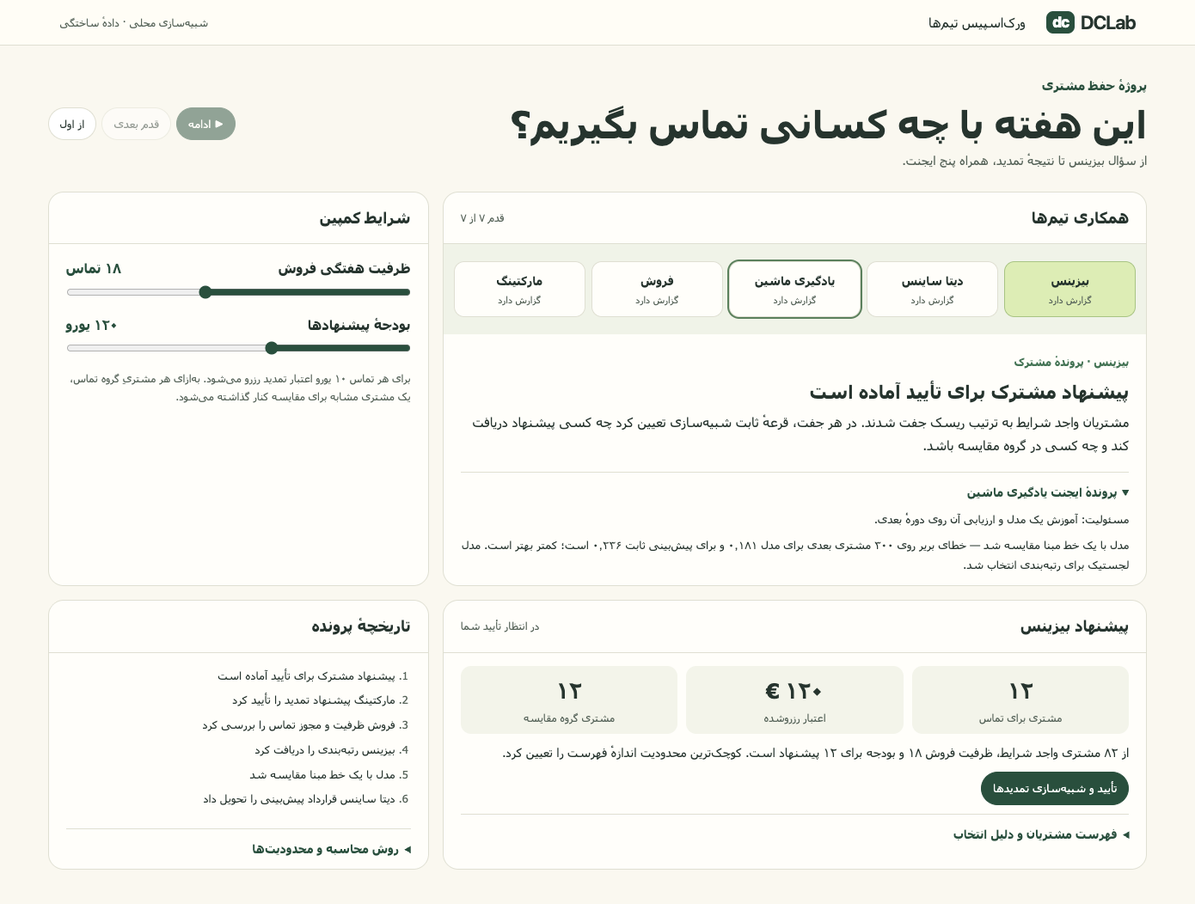
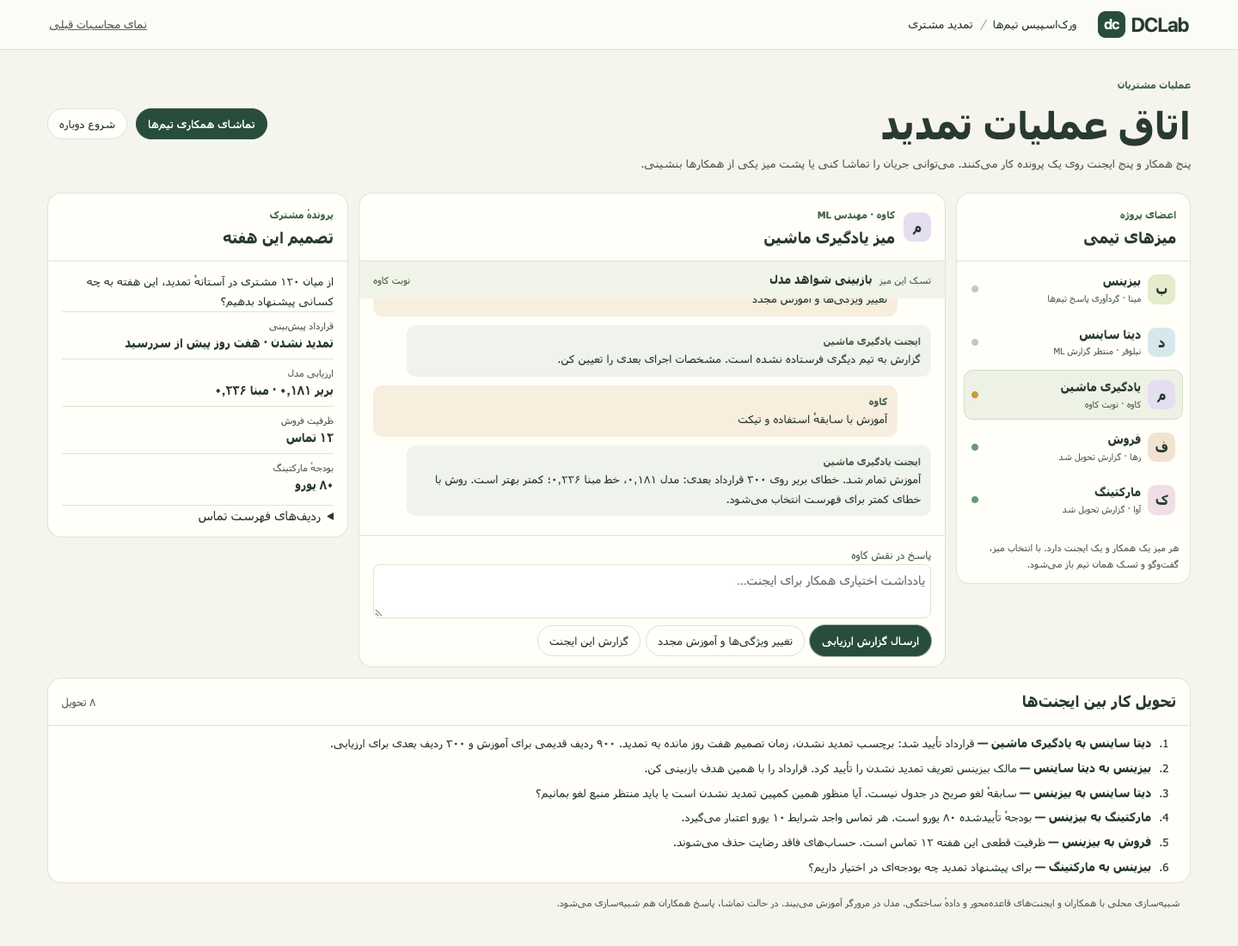
Let each team review and hand off its own work in the retention demo

diff --git a/docs/ui-demos/retention-simulation/room.js b/docs/ui-demos/retention-simulation/room.js
@@ -1,0 +1,268 @@
+'use strict';
+const desks={
+  biz:{team:'بیزینس',person:'مینا',job:'مالک تصمیم',icon:'ب',color:'#e5ebcb'},
+  ds:{team:'دیتا ساینس',person:'نیلوفر',job:'دیتا ساینتیست',icon:'د',color:'#d7e8ed'},
+  ml:{team:'یادگیری ماشین',person:'کاوه',job:'مهندس ML',icon:'م',color:'#e5def0'},
+  sales:{team:'فروش',person:'رها',job:'مدیر فروش',icon:'ف',color:'#f2e3d0'},
+  mkt:{team:'مارکتینگ',person:'آوا',job:'مدیر کمپین',icon:'ک',color:'#efdee5'}
+};
+const ids=Object.keys(desks),$=id=>document.getElementById(id),fa=n=>Number(n).toLocaleString('fa-IR');
+const key='dclab-team-room-1',data=createRetentionCohort();
+const title={brief:'تعریف تصمیم این هفته',idle:'منتظر درخواست بیزینس',audit:'بازبینی تعریف و ستون هدف',clarify:'پاسخ به سؤال دیتا ساینس',blocked:'انتظار برای تعریف قابلاندازهگیری',spec:'انتخاب ویژگیهای مدل',evaluate:'بازبینی شواهد مدل',verify:'تفسیر رتبهبندی',capacity:'تأیید ظرفیت تماس',offer:'تأیید بودجهٔ پیشنهاد',join:'گردآوری پاسخ تیمها',approve:'بررسی و تأیید فهرست',feedback:'بازبینی پیشنهاد',done:'گزارش تحویل شد',closed:'پرونده بسته شد',unavailable:'اجرای پرونده متوقف شد'};
+function initial(){return {v:1,tasks:{biz:'brief',ds:'idle',ml:'idle',sales:'idle',mkt:'idle'},chat:Object.fromEntries(ids.map(i=>[i,[]])),log:[],capacity:null,budget:null,tickets:null,model:null,ranking:false,version:0,closed:false,rejected:false}}
+let s=initial(),selected='biz',timer=null,cursor=0,fitted=null;
+try{const saved=JSON.parse(localStorage.getItem(key));if(saved?.v===1&&saved.tasks&&saved.chat)s=saved}catch{}
+function agent(id){return 'ایجنت '+desks[id].team}
+function say(id,who,text,kind='agent'){s.chat[id].push({who,text,kind})}
+function seed(){say('biz',desks.biz.person,'این هفته ۱۲۰ مشتری در آستانهٔ تمدید داریم. با چه کسانی تماس بگیریم؟','human');say('biz',agent('biz'),'برای اقدام، یک رتبهبندی، ظرفیت فروش و بودجهٔ پیشنهاد لازم داریم. هدف کمپین را تأیید میکنی؟')}
+if(!s.chat.biz.length)seed();
+function send(from,to,text){
+  s.log.push({from,to,text});say(from,agent(from),'برای '+agent(to)+' فرستادم: '+text,'handoff');
+  say(to,agent(from),text,'handoff');
+}
+function save(){try{localStorage.setItem(key,JSON.stringify(s))}catch{}}
+function stop(){clearInterval(timer);timer=null}
+function fittedModel(){return fitted || (fitted=data.fit(s.tickets))}
+function rows(){
+  if(!s.ranking||s.capacity===null||s.budget===null)return [];
+  const {allowed}=fittedModel(),size=Math.min(s.capacity,Math.floor(s.budget/10),Math.floor(allowed.length/2)),list=[];
+  for(let i=0;i<size;i++){
+    const pair=allowed.slice(i*2,i*2+2);if(pair[0].coin<.5)pair.reverse();
+    pair.forEach((a,j)=>list.push({a,offer:j===0,renew:a.draw>=a.risk*(j===0?.76:1)}));
+  }
+  return list;
+}
+function gather(){
+  if(!s.ranking||s.capacity===null||s.budget===null||s.closed)return;
+  s.version++;s.tasks.biz=rows().length?'approve':'feedback';
+  say('biz',agent('biz'),'پیشنهاد نسخهٔ '+fa(s.version)+' آماده است: '+fa(rows().length/2)+' تماس و به همین تعداد مشتری مشابه در گروه مقایسه. '+(rows().length?'مالک تصمیم میتواند فهرست را ببیند و تأیید کند.':'ظرفیت یا بودجه کافی نیست؛ از تیم مربوطه اصلاح بخواه.'));
+}
+function outcome(){const list=rows(),n=list.length/2;return 'از '+fa(n)+' نفر در هر گروه، '+fa(list.filter(r=>r.offer&&r.renew).length)+' نفر با پیشنهاد و '+fa(list.filter(r=>!r.offer&&r.renew).length)+' نفر در گروه مقایسه تمدید کردند. این یک مشاهدهٔ ساختگی با نمونهٔ کوچک است.'}
+// A person decides only at their own desk. Their agent computes or forwards a scoped response.
+function choices(id){
+  if(s.closed)return [];
+  switch(s.tasks[id]){
+  case 'brief': return [['start','شروع کمپین تمدید']];
+  case 'audit':return [['confirm','تأیید برچسب «تمدید نشدن»'],['challenge','درخواست بررسی «لغو صریح»']];
+  case 'clarify':return [['resolve','هدف همین کمپین: تمدید نشدن'],['hold','توقف تا دریافت سابقهٔ لغو']];
+  case 'spec':return [['full','آموزش با سابقهٔ استفاده و تیکت'],['simple','آموزش فقط با سابقهٔ استفاده']];
+  case 'evaluate':return [['release','ارسال گزارش ارزیابی'],['rerun','تغییر ویژگیها و آموزش مجدد']];
+  case 'verify':return [['interpret','تأیید تفسیر و تحویل به بیزینس']];
+  case 'capacity':return [['capacity','ثبت ظرفیت و پاسخ به بیزینس']];
+  case 'offer':return [['offer','ثبت بودجه و شرایط پیشنهاد']];
+  case 'approve':return [['approve','تأیید و مشاهدهٔ تمدیدها'],['change','بازگرداندن به فروش'],['terms','بازنگری بودجه با مارکتینگ']];
+  case 'feedback':return [['change','بازگرداندن به فروش'],['terms','بازنگری بودجه با مارکتینگ']];
+  default:return [];
+  }
+}
+function apply(id,action,value,note,automatic=false){
+  const option=choices(id).find(c=>c[0]===action);if(!option)return;
+  if((action==='capacity'||action==='offer')&&(!Number.isInteger(value)||value<0||value>(action==='capacity'?30:300)))return;
+  say(id,desks[id].person+(automatic?' · شبیهسازی':''),option[1]+(value!=null?' · '+fa(value):'')+(note?' — '+note:''),'human');
+  if(action==='start'){
+    s.tasks={biz:'join',ds:'audit',ml:'idle',sales:'capacity',mkt:'offer'};
+    send('biz','ds','آیا میتوان هفت روز پیش از سررسید، ریسک تمدید نشدن را تخمین زد؟');
+    say('ds',agent('ds'),'در داده، وضعیت تمدید پس از سررسید ثبت شده است. آیا این همان خروجی مورد نظر است؟ پیش از آموزش، تعریف تو لازم است.');
+    send('biz','sales','این هفته چند تماسِ مجاز میتوانیم بگیریم؟');say('sales',agent('sales'),'از ۱۲۰ حساب، '+fa(data.cohort.filter(a=>a.consent).length)+' مورد مجوز تماس دارند. ظرفیت این هفته را ثبت کن.');
+    send('biz','mkt','برای پیشنهاد تمدید چه بودجهای در اختیار داریم؟');say('mkt',agent('mkt'),'هر پیشنهاد به ۱۰ یورو اعتبار نیاز دارد. بودجهٔ در دسترس را تأیید کن.');
+  }else if(action==='challenge'){
+    s.tasks.ds='blocked';s.tasks.biz='clarify';send('ds','biz','سابقهٔ لغو صریح در جدول نیست. آیا منظور همین کمپین تمدید نشدن است یا باید منتظر منبع لغو بمانیم؟');
+  }else if(action==='resolve'){
+    s.tasks.biz='join';s.tasks.ds='audit';send('biz','ds','مالک بیزینس تعریف تمدید نشدن را تأیید کرد. قرارداد را با همین هدف بازبینی کن.');
+  }else if(action==='hold'){
+    send('biz','ds','تا تأمین منبع رویداد لغو، پرونده را متوقف کن.');s.rejected=true;s.closed=true;ids.forEach(i=>s.tasks[i]='unavailable');
+  }else if(action==='confirm'){
+    s.tasks.ds='join';s.tasks.ml='spec';send('ds','ml','قرارداد تأیید شد: برچسب تمدید نشدن، زمان تصمیم هفت روز مانده به تمدید. ۹۰۰ ردیف قدیمی برای آموزش و ۳۰۰ ردیف بعدی برای ارزیابی.');
+    say('ml',agent('ml'),'ویژگیهای در دسترس همان روز را انتخاب کن. نتیجهٔ تمدید وارد ویژگیها نمیشود.');
+  }else if(action==='full'||action==='simple'){
+    s.tickets=action==='full';fitted=data.fit(s.tickets);s.model={score:fitted.score,baseline:fitted.baseScore};s.tasks.ml='evaluate';
+    say('ml',agent('ml'),'آموزش تمام شد. خطای بریر روی ۳۰۰ قرارداد بعدی: مدل '+fa(fitted.score.toFixed(3))+'، خط مبنا '+fa(fitted.baseScore.toFixed(3))+'؛ کمتر بهتر است. روش با خطای کمتر برای فهرست انتخاب میشود.');
+  }else if(action==='rerun'){
+    s.tasks.ml='spec';s.model=null;fitted=null;say('ml',agent('ml'),'گزارش به تیم دیگری فرستاده نشده است. مشخصات اجرای بعدی را تعیین کن.');
+  }else if(action==='release'){
+    s.tasks.ml='done';s.tasks.ds='verify';send('ml','ds','گزارش مدل با '+fa(s.tickets?2:1)+' ویژگی: خطای مدل '+fa(s.model.score.toFixed(3))+' و خطای مبنا '+fa(s.model.baseline.toFixed(3))+' روی ۳۰۰ قرارداد.');
+    say('ds',agent('ds'),'این مدل ریسک را مرتب میکند. برای سنجش اثر تماس، یک گروه مقایسه با ریسک مشابه پیشنهاد میدهم. نتیجه را تحویل بدهم؟');
+  }else if(action==='interpret'){
+    s.ranking=true;s.tasks.ds='done';send('ds','biz','رتبهبندی ۱۲۰ مشتری آماده است. افراد مجاز را برحسب ریسک جفت میکنیم و از هر جفت یک نفر با قرعه وارد گروه پیشنهاد میشود.');gather();
+  }else if(action==='capacity'||action==='offer'){
+    if(action==='capacity')s.capacity=value;else s.budget=value;
+    s.tasks[id]='done';send(id,'biz',action==='capacity'?'ظرفیت قطعی این هفته '+fa(value)+' تماس است. حسابهای فاقد رضایت حذف میشوند.':'بودجهٔ تأییدشده '+fa(value)+' یورو است. هر تماس واجد شرایط ۱۰ یورو اعتبار میگیرد.');gather();
+  }else if(action==='change'||action==='terms'){
+    const target=action==='change'?'sales':'mkt';s.tasks.biz='join';s.tasks[target]=target==='sales'?'capacity':'offer';
+    if(target==='sales')s.capacity=null;else s.budget=null;
+    send('biz',target,'پیشنهاد نسخهٔ '+fa(s.version)+' برای بازنگری برگشت. محدودیت جدید را در میز خودت تأیید کن.');
+  }else if(action==='approve'){
+    s.closed=true;s.tasks.biz='closed';say('biz',agent('biz'),'تصمیم نسخهٔ '+fa(s.version)+' ثبت شد. '+outcome());
+  }
+  save();if(s.closed)stop();render();
+}
+
+function el(tag,text,cls){
+  const node=document.createElement(tag);
+  if(text!=null)node.textContent=text;
+  if(cls)node.className=cls;
+  return node;
+}
+function button(label,fn,cls){
+  const node=el('button',label,cls);
+  node.type='button';
+  node.onclick=fn;
+  return node;
+}
+const drafts={};
+function visit(id){
+  stop();
+  selected=id;
+  render();
+}
+function stateText(id){
+  if(choices(id).length)return 'نوبت '+desks[id].person;
+  if(s.tasks[id]==='join'&&id==='ds')return 'منتظر گزارش ML';
+  return title[s.tasks[id]];
+}
+function renderDesks(){
+  $('desks').replaceChildren();
+  for(const [id,d] of Object.entries(desks)){
+    const b=button('',()=>visit(id),'deskbtn');
+    b.dataset.team=id;
+    b.setAttribute('aria-pressed',String(id===selected));
+    const mark=el('span',d.icon,'symbol');
+    mark.style.setProperty('--tone',d.color);
+    const name=el('span');
+    name.append(el('b',d.team),el('small',d.person+' · '+stateText(id)));
+    const status=choices(id).length?'waiting':s.tasks[id]==='done'?'done':'';
+    b.append(mark,name,el('i',null,'dot '+status));
+    $('desks').append(b);
+  }
+}
+function renderMessages(){
+  const d=desks[selected];
+  $('role').textContent=d.person+' · '+d.job;
+  $('deskName').textContent='میز '+d.team;
+  $('symbol').textContent=d.icon;
+  $('symbol').style.setProperty('--tone',d.color);
+  $('task').textContent=title[s.tasks[selected]];
+  $('status').textContent=stateText(selected);
+  const chat=$('chat');
+  chat.replaceChildren();
+  for(const m of s.chat[selected]){
+    const msg=el('article',null,'message '+m.kind);
+    msg.append(el('b',m.who),el('p',m.text));
+    chat.append(msg);
+  }
+  if(!chat.childElementCount)chat.append(el('p','درخواستهای این تیم و پاسخ ایجنت اینجا ثبت میشود.','empty'));
+  chat.scrollTop=chat.scrollHeight;
+}
+function report(id){
+  const sent=s.log.filter(m=>m.from===id).at(-1);
+  const next=choices(id).map(c=>c[1]).join(' یا ');
+  return (sent?'آخرین تحویل به '+desks[sent.to].team+' — '+sent.text:'هنوز گزارشی از این میز به تیم دیگری ارسال نشده.')+
+    ' وضعیت فعلی: '+stateText(id)+'. '+(next?'تصمیم بعدی: '+next+'.':'');
+}
+function renderActions(){
+  const box=$('actions'),options=choices(selected),note=$('note');
+  box.replaceChildren();
+  note.value=drafts[selected]||'';
+  note.hidden=!options.length;
+  $('noteLabel').hidden=note.hidden;
+  $('noteLabel').textContent='پاسخ در نقش '+desks[selected].person;
+  const numeric=options.some(([a])=>a==='capacity'||a==='offer');
+  if(numeric){
+    const capacity=selected==='sales',input=el('input');
+    input.type='number';input.min='0';input.max=capacity?'30':'300';input.step='1';input.required=true;
+    input.id='constraint';input.value=capacity?'18':'120';
+    const label=el('label',capacity?'تعداد تماس':'بودجه (یورو)');
+    label.htmlFor=input.id;
+    box.append(label,input);
+  }
+  options.forEach(([action,label],i)=>{
+    const b=button(label,()=>{
+      const input=$('constraint');
+      if(input&&!input.reportValidity())return;
+      stop();
+      const text=note.value.trim();
+      delete drafts[selected];
+      apply(selected,action,input?input.valueAsNumber:null,text);
+    },i===0?'primary':'');
+    b.dataset.action=action;
+    box.append(b);
+  });
+  if(!options.length&&!s.closed){
+    const next=ids.find(id=>choices(id).length);
+    if(next)box.append(button('رفتن به میز '+desks[next].team,()=>visit(next),'primary'));
+  }
+  box.append(button('گزارش این ایجنت',()=>{
+    stop();
+    say(selected,desks[selected].person,'چه کاری انجام دادی و قدم بعدی چیست؟','human');
+    say(selected,agent(selected),report(selected));
+    save();render();
+  }));
+}
+function fact(label,value){
+  const row=el('div',null,'fact');
+  row.append(el('small',label),el('strong',value));
+  return row;
+}
+function renderCase(){
+  const list=rows(),box=$('artifacts');
+  $('brief').textContent=s.rejected?'پرونده تا دریافت سابقهٔ لغو متوقف شد.':s.closed?outcome():'از میان ۱۲۰ مشتری در آستانهٔ تمدید، این هفته به چه کسانی پیشنهاد بدهیم؟';
+  box.replaceChildren(
+    fact('قرارداد پیشبینی',s.rejected?'در انتظار منبع لغو':s.tasks.ml!=='idle'?'تمدید نشدن · هفت روز پیش از سررسید':'در انتظار تأیید تعریف'),
+    fact('ارزیابی مدل',s.model?'بریر '+fa(s.model.score.toFixed(3))+' · مبنا '+fa(s.model.baseline.toFixed(3)):'در انتظار اجرای آموزش'),
+    fact('ظرفیت فروش',s.capacity==null?'در انتظار فروش':fa(s.capacity)+' تماس'),
+    fact('بودجهٔ مارکتینگ',s.budget==null?'در انتظار مارکتینگ':fa(s.budget)+' یورو')
+  );
+  if(s.version)box.append(fact('پیشنهاد نسخهٔ '+fa(s.version),s.tasks.biz==='join'?'برگشت برای بازنگری':fa(list.length/2)+' تماس · '+(s.closed?'تأیید شد':'در انتظار تصمیم')));
+  $('list').replaceChildren();
+  if(!list.length)$('list').append(el('p','هنوز فهرستی برای تماس آماده نیست.','empty'));
+  for(const r of list){
+    const parts=['حساب '+fa(r.a.id),r.offer?'پیشنهاد':'مقایسه','ریسک '+fa(Math.round(fittedModel().model(r.a)*100))+'٪'];
+    if(s.closed)parts.push(r.renew?'تمدید شد':'تمدید نشد');
+    $('list').append(el('div',parts.join(' · ')));
+  }
+  $('history').replaceChildren();
+  $('count').textContent=fa(s.log.length)+' تحویل';
+  for(const m of s.log.slice().reverse()){
+    const row=el('li');
+    row.append(el('b',desks[m.from].team+' به '+desks[m.to].team+' — '),document.createTextNode(m.text));
+    $('history').append(row);
+  }
+  if(!s.log.length)$('history').append(el('li','با شروع کمپین، سه درخواست از بیزینس به تیمها ارسال میشود.','empty'));
+}
+function render(){
+  $('play').textContent=timer?'مکث و ادامهٔ دستی':'تماشای همکاری تیمها';
+  $('play').disabled=s.closed;
+  renderDesks();renderMessages();renderActions();renderCase();
+}
+function step(){
+  for(let i=0;i<ids.length;i++){
+    const id=ids[cursor++%ids.length],options=choices(id);
+    if(!options.length)continue;
+    selected=id;
+    let action=options[0][0];
+    if(s.tasks[id]==='feedback')action=s.capacity===0?'change':'terms';
+    const value=action==='capacity'?18:action==='offer'?120:null;
+    apply(id,action,value,null,true);
+    return;
+  }
+  stop();render();
+}
+$('play').onclick=()=>{
+  if(timer){stop();render();return}
+  timer=setInterval(step,2700);
+  step();
+};
+$('response').onsubmit=e=>e.preventDefault();
+$('note').oninput=e=>drafts[selected]=e.target.value;
+$('response').addEventListener('focusin',()=>{
+  if(timer){stop();$('play').textContent='تماشای همکاری تیمها'}
+});
+$('restart').onclick=()=>{stop();render();$('confirm').showModal()};
+$('keep').onclick=()=>$('confirm').close();
+$('clear').onclick=()=>{
+  $('confirm').close();
+  s=initial();selected='biz';cursor=0;fitted=null;
+  for(const id of ids)delete drafts[id];
+  seed();save();render();
+};
+render();

diff --git a/docs/ui-demos/retention-simulation/index.html b/docs/ui-demos/retention-simulation/index.html
@@ -1,9 +1,12 @@
-<!doctype html><html lang="fa" dir="rtl"><head><meta charset="utf-8"><meta name="viewport" content="width=device-width, initial-scale=1"><title>اتاق تصمیم ریزش مشتری | DCLab</title><link rel="stylesheet" href="simulation.css"></head>
-<body><header><div class="wordmark" dir="ltr"><b>dc</b> DCLab</div><span>ورکاسپیس تیمها</span><small>شبیهسازی محلی · دادهٔ ساختگی</small></header>
-<main><div class="hero"><div><p class="kicker">پروژهٔ حفظ مشتری</p><h1>این هفته با چه کسانی تماس بگیریم؟</h1><p>از سؤال بیزینس تا نتیجهٔ تمدید، همراه پنج ایجنت.</p></div><div class="controls"><button class="green" id="play">▶ اجرای شبیهسازی</button><button id="step">قدم بعدی</button><button id="reset" title="شروع دوباره">از اول</button></div></div>
-<div class="layout"><section class="panel flow"><div class="head"><h2>همکاری تیمها</h2><span id="counter"></span></div><div id="nodes"></div><div class="dispatch" aria-live="polite"><small id="route"></small><h2 id="subject"></h2><p id="detail"></p></div>
-<details id="agent"><summary>پروندهٔ ایجنت <b id="agentName"></b></summary><div id="agentReport"></div></details></section>
-<aside class="panel policy"><div class="head"><h2>شرایط کمپین</h2></div><div class="pad"><label for="capacity">ظرفیت هفتگی فروش <output id="capLabel"></output></label><input type="range" id="capacity" min="0" max="30" value="18"><label for="budget">بودجهٔ پیشنهادها <output id="budgetLabel"></output></label><input type="range" id="budget" min="0" max="300" step="10" value="120"><p class="hint">برای هر تماس ۱۰ یورو اعتبار تمدید رزرو میشود. بهازای هر مشتریِ گروه تماس، یک مشتری مشابه برای مقایسه کنار گذاشته میشود.</p><div id="revision"></div></div></aside>
-<section class="panel brief"><div class="head"><h2>پیشنهاد بیزینس</h2><span id="state"></span></div><div class="pad"><div class="metrics"><div><b id="num">—</b><small>مشتری برای تماس</small></div><div><b id="spend">—</b><small>اعتبار رزروشده</small></div><div><b id="compare">—</b><small>مشتری گروه مقایسه</small></div></div><p id="reason"></p><button id="approve" class="green" hidden>تأیید و شبیهسازی تمدیدها</button><p id="observed" aria-live="polite"></p><details id="customers" hidden><summary>فهرست مشتریان و دلیل انتخاب</summary><div class="tablewrap"><table><thead><tr><th>مشتری</th><th>ریسک تخمینی</th><th>روز از آخرین استفاده</th><th>گروه آزمایش</th><th>تمدید</th></tr></thead><tbody id="rows"></tbody></table></div></details></div></section>
-<section class="panel log"><div class="head"><h2>تاریخچهٔ پرونده</h2></div><ol id="log"></ol><details><summary>روش محاسبه و محدودیتها</summary><p>۱۲۰۰ سابقهٔ ساختگی به ترتیب زمان ساخته میشود. هدف، تمدید نشدن تا تاریخ قرارداد است. دو ویژگی در هفت روز مانده به تمدید در دسترساند: فاصله از آخرین استفاده و تعداد تیکتهای قبلی. مدل رگرسیون لجستیک روی ۹۰۰ سابقه آموزش میبیند و روی ۳۰۰ سابقهٔ بعدی با نرخ ثابت آموزش مقایسه میشود. برای هفتهٔ جدید ۱۲۰ حساب جداگانه داریم. قرعهٔ هر جفت و واکنشهای فرضی ثابتاند تا دو بودجه را بتوان مقایسه کرد. رفتار تیمها با قواعد محلی اجرا میشود؛ نتیجهٔ این آزمایش قابل تعمیم به مشتری واقعی نیست.</p></details></section></div>
-</main><script src="simulation.js"></script></body></html>
+<!doctype html>
+<html lang="fa" dir="rtl"><meta charset="utf-8"><meta name="viewport" content="width=device-width,initial-scale=1"><title>DCLab · اتاق عملیات تمدید</title>
+<link rel="stylesheet" href="room.css">
+<header><div class="brand" dir="ltr"><i>dc</i> DCLab</div><div class="path">ورکاسپیس تیمها <em>/</em> تمدید مشتری</div><a href="walkthrough.html">نمای محاسبات قبلی</a></header>
+<main><section class="intro"><div><small class="eyebrow">عملیات مشتریان</small><h1>اتاق عملیات تمدید</h1><p>پنج همکار و پنج ایجنت روی یک پرونده کار میکنند. میتوانی جریان را تماشا کنی یا پشت میز یکی از همکارها بنشینی.</p></div><div class="run"><button id="play" class="primary"></button><button id="restart">شروع دوباره</button></div></section>
+<div class="layout"><aside class="teams panel"><div class="heading"><small class="eyebrow">اعضای پروژه</small><h2>میزهای تیمی</h2></div><div id="desks"></div><p class="legend">هر میز یک همکار و یک ایجنت دارد. با انتخاب میز، گفتوگو و تسک همان تیم باز میشود.</p></aside>
+<section class="desk panel"><div class="heading"><div class="deskhead"><span class="symbol" id="symbol"></span><div><small class="eyebrow" id="role"></small><h2 id="deskName"></h2></div></div></div><div class="task"><small>تسک این میز</small><b id="task"></b><span id="status"></span></div>
+<div id="chat" role="log" aria-live="polite"></div><form id="response"><label for="note" id="noteLabel"></label><textarea id="note" rows="2" placeholder="یادداشت اختیاری همکار برای ایجنت…"></textarea><div id="actions"></div></form></section>
+<aside class="case panel"><div class="heading"><small class="eyebrow">پروندهٔ مشترک</small><h2>تصمیم این هفته</h2></div><div class="pad"><p id="brief"></p><div id="artifacts"></div><details><summary>ردیفهای فهرست تماس</summary><div id="list"></div></details></div></aside>
+<section class="timeline panel"><div class="heading"><h2>تحویل کار بین ایجنتها</h2><span id="count"></span></div><ol id="history"></ol></section></div><footer>شبیهسازی محلی با همکاران و ایجنتهای قاعدهمحور و دادهٔ ساختگی. مدل در مرورگر آموزش میبیند. در حالت تماشا، پاسخ همکاران هم شبیهسازی میشود.</footer></main>
+<dialog id="confirm"><h2>پرونده از ابتدا اجرا شود؟</h2><p>گفتوگوها و انتخابهای این اجرای محلی پاک میشوند.</p><button id="keep">ادامهٔ همین پرونده</button><button id="clear">شروع از ابتدا</button></dialog>
+<script src="cohort.js"></script><script src="room.js"></script></html>

diff --git a/docs/ui-demos/retention-simulation/room.css b/docs/ui-demos/retention-simulation/room.css
@@ -1,0 +1,1 @@
+:root{--ink:#293a32;--sub:#58675e;--line:#e1e2d7;--dark:#284d3d;--paper:#f6f5ed;--leaf:#e4edcf;font:14px/1.75 Tahoma,system-ui,sans-serif;background:var(--paper);color:var(--ink)}*{box-sizing:border-box}body{margin:0}header{display:flex;align-items:center;gap:24px;background:#fcfcf6;border-bottom:1px solid var(--line);padding:13px 4%;font-size:13px}.brand{font:650 23px system-ui;display:flex;align-items:center;gap:7px;letter-spacing:-1px}.brand i{font:650 16px/31px system-ui;background:var(--dark);color:white;border-radius:9px;width:32px;text-align:center}em{color:#a6b3a8;margin:0 5px}header a{margin-inline-start:auto;color:var(--sub)}main{max-width:1540px;margin:auto;padding:28px 3.8%}h1,h2,p{margin:0}h1{font-size:clamp(27px,3.2vw,43px);line-height:1.6;letter-spacing:-1px}h2{font-size:17px}small,.eyebrow{color:var(--sub);font-size:11px}.eyebrow{color:#47694f;font-weight:bold}.intro,.heading,.deskhead,.run{display:flex;align-items:center;gap:10px}.intro{justify-content:space-between;margin-bottom:22px}.intro p,footer,.legend{color:var(--sub);font-size:13px}.run{flex-shrink:0;flex-wrap:wrap}button,textarea,input{font:inherit}button{cursor:pointer;background:#fffefa;color:var(--ink);border:1px solid var(--line);border-radius:18px;padding:6px 13px;font-size:13px}button:disabled{opacity:.55;cursor:default}.primary{background:var(--dark);color:white;border-color:var(--dark)}button:hover:enabled{box-shadow:0 0 0 1px #a6b5a3}button:focus-visible,a:focus-visible,summary:focus-visible,textarea:focus-visible,input:focus-visible{outline:3px solid #6f916e;outline-offset:2px}.layout{display:grid;grid-template-columns:minmax(170px,.78fr) minmax(330px,1.95fr) minmax(207px,1fr);gap:12px;align-items:start}.panel{background:#fffef9;border:1px solid var(--line);border-radius:16px;overflow:hidden}.heading{min-height:66px;padding:12px 16px;border-bottom:1px solid var(--line);justify-content:space-between}.teams .heading,.case .heading{display:block}.deskbtn{width:calc(100% - 16px);margin:3px 8px;border:1px solid transparent;border-radius:11px;display:flex;align-items:center;gap:8px;text-align:right;padding:8px;background:transparent}.deskbtn[aria-pressed=true]{background:#edf2e5;border-color:#d2ddc6}.symbol{border-radius:10px;background:var(--tone,#dde9d3);padding:4px;min-width:32px;text-align:center;font-weight:bold;font-size:15px}.deskbtn span b,.deskbtn span small{display:block}.deskbtn span small{font-size:10px}.dot{margin-inline-start:auto;background:#c4c8bf;border-radius:50%;width:8px;height:8px}.waiting{background:#d19840}.done{background:#689877}.legend,footer{padding:13px;font-size:11px}.task{background:#f1f4e8;padding:10px 16px;display:flex;align-items:center;gap:8px;flex-wrap:wrap}.task span{font-size:11px;color:#55674d;margin-inline-start:auto}.task b{font-size:13px}#chat{height:275px;overflow:auto;padding:12px 16px;scroll-behavior:auto}.message{margin:6px 0 10px;max-width:94%;padding:9px 12px;background:#f0f3ec;border-radius:11px}.message.human{margin-inline-start:auto;background:#f7eede}.message.handoff{border-inline-start:3px solid #88a396;background:#eff3ef}.message b{font-size:11px;display:block;color:#506453}.message p{font-size:13px}#response{border-top:1px solid var(--line);padding:12px 16px}textarea{width:100%;resize:vertical;max-height:95px;background:#fff;border:1px solid var(--line);border-radius:8px;padding:6px}label{display:block;font-size:12px;color:var(--sub)}#actions{display:flex;flex-wrap:wrap;gap:6px;align-items:center}#actions input{width:84px;padding:4px;border:1px solid #adb9a6;border-radius:8px}.pad{padding:12px 16px}.pad p{font-size:13px}.fact{border-top:1px solid var(--line);padding:6px 0;font-size:13px}.fact small{display:block}.case details{border-top:1px solid var(--line);margin-top:5px}summary{cursor:pointer}#list{max-height:165px;overflow:auto;font-size:12px}.timeline{grid-column:1/-1}.timeline .heading{min-height:45px}#count{font-size:12px;color:var(--sub)}ol{margin:6px 16px;padding-inline-start:24px;max-height:170px;overflow:auto}li{padding:3px 5px;font-size:13px}.empty{color:var(--sub);font-size:13px}dialog{border-radius:15px;border:1px solid var(--line)}[hidden]{display:none!important}@media(max-width:940px){.layout{grid-template-columns:180px 1fr}.case{grid-column:1/-1}.case .pad{display:flex;flex-direction:column}#artifacts{display:flex;flex-wrap:wrap;gap:10px}.intro{flex-wrap:wrap}}@media(max-width:620px){main{padding:13px 10px}header{gap:8px;font-size:11px}.path{display:none}.layout{display:block}.panel{margin-bottom:10px}#desks{display:flex;overflow:auto}.deskbtn{width:auto;flex-shrink:0;min-width:105px;margin:3px;padding:5px}.teams .legend{display:none}.heading{min-height:48px}.teams .heading{display:flex}.intro{margin-bottom:12px}#chat{height:225px}}

diff --git a/docs/ui-demos/retention-simulation/walkthrough.html b/docs/ui-demos/retention-simulation/walkthrough.html
@@ -1,0 +1,9 @@
+<!doctype html><html lang="fa" dir="rtl"><head><meta charset="utf-8"><meta name="viewport" content="width=device-width, initial-scale=1"><title>اتاق تصمیم ریزش مشتری | DCLab</title><link rel="stylesheet" href="simulation.css"></head>
+<body><header><div class="wordmark" dir="ltr"><b>dc</b> DCLab</div><span>ورکاسپیس تیمها</span><small>شبیهسازی محلی · دادهٔ ساختگی</small></header>
+<main><div class="hero"><div><p class="kicker">پروژهٔ حفظ مشتری</p><h1>این هفته با چه کسانی تماس بگیریم؟</h1><p>از سؤال بیزینس تا نتیجهٔ تمدید، همراه پنج ایجنت.</p></div><div class="controls"><button class="green" id="play">▶ اجرای شبیهسازی</button><button id="step">قدم بعدی</button><button id="reset" title="شروع دوباره">از اول</button></div></div>
+<div class="layout"><section class="panel flow"><div class="head"><h2>همکاری تیمها</h2><span id="counter"></span></div><div id="nodes"></div><div class="dispatch" aria-live="polite"><small id="route"></small><h2 id="subject"></h2><p id="detail"></p></div>
+<details id="agent"><summary>پروندهٔ ایجنت <b id="agentName"></b></summary><div id="agentReport"></div></details></section>
+<aside class="panel policy"><div class="head"><h2>شرایط کمپین</h2></div><div class="pad"><label for="capacity">ظرفیت هفتگی فروش <output id="capLabel"></output></label><input type="range" id="capacity" min="0" max="30" value="18"><label for="budget">بودجهٔ پیشنهادها <output id="budgetLabel"></output></label><input type="range" id="budget" min="0" max="300" step="10" value="120"><p class="hint">برای هر تماس ۱۰ یورو اعتبار تمدید رزرو میشود. بهازای هر مشتریِ گروه تماس، یک مشتری مشابه برای مقایسه کنار گذاشته میشود.</p><div id="revision"></div></div></aside>
+<section class="panel brief"><div class="head"><h2>پیشنهاد بیزینس</h2><span id="state"></span></div><div class="pad"><div class="metrics"><div><b id="num">—</b><small>مشتری برای تماس</small></div><div><b id="spend">—</b><small>اعتبار رزروشده</small></div><div><b id="compare">—</b><small>مشتری گروه مقایسه</small></div></div><p id="reason"></p><button id="approve" class="green" hidden>تأیید و شبیهسازی تمدیدها</button><p id="observed" aria-live="polite"></p><details id="customers" hidden><summary>فهرست مشتریان و دلیل انتخاب</summary><div class="tablewrap"><table><thead><tr><th>مشتری</th><th>ریسک تخمینی</th><th>روز از آخرین استفاده</th><th>گروه آزمایش</th><th>تمدید</th></tr></thead><tbody id="rows"></tbody></table></div></details></div></section>
+<section class="panel log"><div class="head"><h2>تاریخچهٔ پرونده</h2></div><ol id="log"></ol><details><summary>روش محاسبه و محدودیتها</summary><p>۱۲۰۰ سابقهٔ ساختگی به ترتیب زمان ساخته میشود. هدف، تمدید نشدن تا تاریخ قرارداد است. دو ویژگی در هفت روز مانده به تمدید در دسترساند: فاصله از آخرین استفاده و تعداد تیکتهای قبلی. مدل رگرسیون لجستیک روی ۹۰۰ سابقه آموزش میبیند و روی ۳۰۰ سابقهٔ بعدی با نرخ ثابت آموزش مقایسه میشود. برای هفتهٔ جدید ۱۲۰ حساب جداگانه داریم. قرعهٔ هر جفت و واکنشهای فرضی ثابتاند تا دو بودجه را بتوان مقایسه کرد. رفتار تیمها با قواعد محلی اجرا میشود؛ نتیجهٔ این آزمایش قابل تعمیم به مشتری واقعی نیست.</p></details></section></div>
+</main><script src="cohort.js"></script><script src="simulation.js"></script></body></html>

diff --git a/docs/ui-demos/retention-simulation/simulation.js b/docs/ui-demos/retention-simulation/simulation.js
@@ -1,32 +1,6 @@
 'use strict';
-// Synthetic population and fixed random draws make scenario comparisons reproducible.
-function generator(seed) {
-  return () => { seed=(Math.imul(seed,1664525)+1013904223)>>>0; return seed/4294967296; };
-}
-const random=generator(1042);
-const sigmoid=x=>1/(1+Math.exp(-x));
-function account(id) {
-  const days=Math.floor(random()*51),tickets=Math.floor(random()*7);
-  const risk=sigmoid(-3.4+.069*days+.29*tickets);
-  return {id,days,tickets,risk,lapsed:Number(random()<risk),eligible:random()>.18,
-    consent:random()>.12,coin:random(),draw:random()};
-}
-const history=Array.from({length:1200},(_,i)=>account(i+1));
-const train=history.slice(0,900),validation=history.slice(900);
-const cohort=Array.from({length:120},(_,i)=>account(8001+i));
-const features=a=>[1,a.days/50,a.tickets/6];
-const weights=[0,0,0];
-function prediction(a){return sigmoid(features(a).reduce((sum,x,i)=>sum+x*weights[i],0))}
-for(let epoch=0;epoch<200;epoch++){
-  const gradient=[0,0,0];
-  for(const a of train){const error=prediction(a)-a.lapsed;features(a).forEach((x,i)=>gradient[i]+=error*x)}
-  weights.forEach((w,i)=>weights[i]-=.8*gradient[i]/train.length);
-}
-const baseline=train.reduce((sum,a)=>sum+a.lapsed,0)/train.length;
-const brier=fn=>validation.reduce((s,a)=>s+(fn(a)-a.lapsed)**2,0)/validation.length;
-const score=brier(prediction),baseScore=brier(()=>baseline);
-const model=score<=baseScore?prediction:()=>baseline;
-const allowed=cohort.filter(a=>a.consent && a.eligible).sort((a,b)=>model(b)-model(a)||a.id-b.id);
+const {train,validation,cohort,fit}=createRetentionCohort();
+const {score,baseScore,model,allowed}=fit();
 const roles=['بیزینس','دیتا ساینس','یادگیری ماشین','فروش','مارکتینگ'];
 const $=id=>document.getElementById(id),fa=n=>Number(n).toLocaleString('fa-IR');
 const pct=n=>fa(Math.round(n*100))+'٪';

diff --git a/docs/ui-demos/retention-simulation/cohort.js b/docs/ui-demos/retention-simulation/cohort.js
@@ -1,0 +1,35 @@
+'use strict';
+function createRetentionCohort(){
+// Synthetic population and fixed random draws make scenario comparisons reproducible.
+function generator(seed) {
+  return () => { seed=(Math.imul(seed,1664525)+1013904223)>>>0; return seed/4294967296; };
+}
+const random=generator(1042);
+const sigmoid=x=>1/(1+Math.exp(-x));
+function account(id) {
+  const days=Math.floor(random()*51),tickets=Math.floor(random()*7);
+  const risk=sigmoid(-3.4+.069*days+.29*tickets);
+  return {id,days,tickets,risk,lapsed:Number(random()<risk),eligible:random()>.18,
+    consent:random()>.12,coin:random(),draw:random()};
+}
+const history=Array.from({length:1200},(_,i)=>account(i+1));
+const train=history.slice(0,900),validation=history.slice(900);
+const cohort=Array.from({length:120},(_,i)=>account(8001+i));
+function fit(useTickets=true){
+const features=a=>useTickets?[1,a.days/50,a.tickets/6]:[1,a.days/50,0];
+const weights=[0,0,0];
+function prediction(a){return sigmoid(features(a).reduce((sum,x,i)=>sum+x*weights[i],0))}
+for(let epoch=0;epoch<200;epoch++){
+  const gradient=[0,0,0];
+  for(const a of train){const error=prediction(a)-a.lapsed;features(a).forEach((x,i)=>gradient[i]+=error*x)}
+  weights.forEach((w,i)=>weights[i]-=.8*gradient[i]/train.length);
+}
+const baseline=train.reduce((sum,a)=>sum+a.lapsed,0)/train.length;
+const brier=fn=>validation.reduce((s,a)=>s+(fn(a)-a.lapsed)**2,0)/validation.length;
+const score=brier(prediction),baseScore=brier(()=>baseline);
+const model=score<=baseScore?prediction:()=>baseline;
+const allowed=cohort.filter(a=>a.consent && a.eligible).sort((a,b)=>model(b)-model(a)||a.id-b.id);
+return {score,baseScore,model,allowed};
+}
+return {train,validation,cohort,fit};
+}
